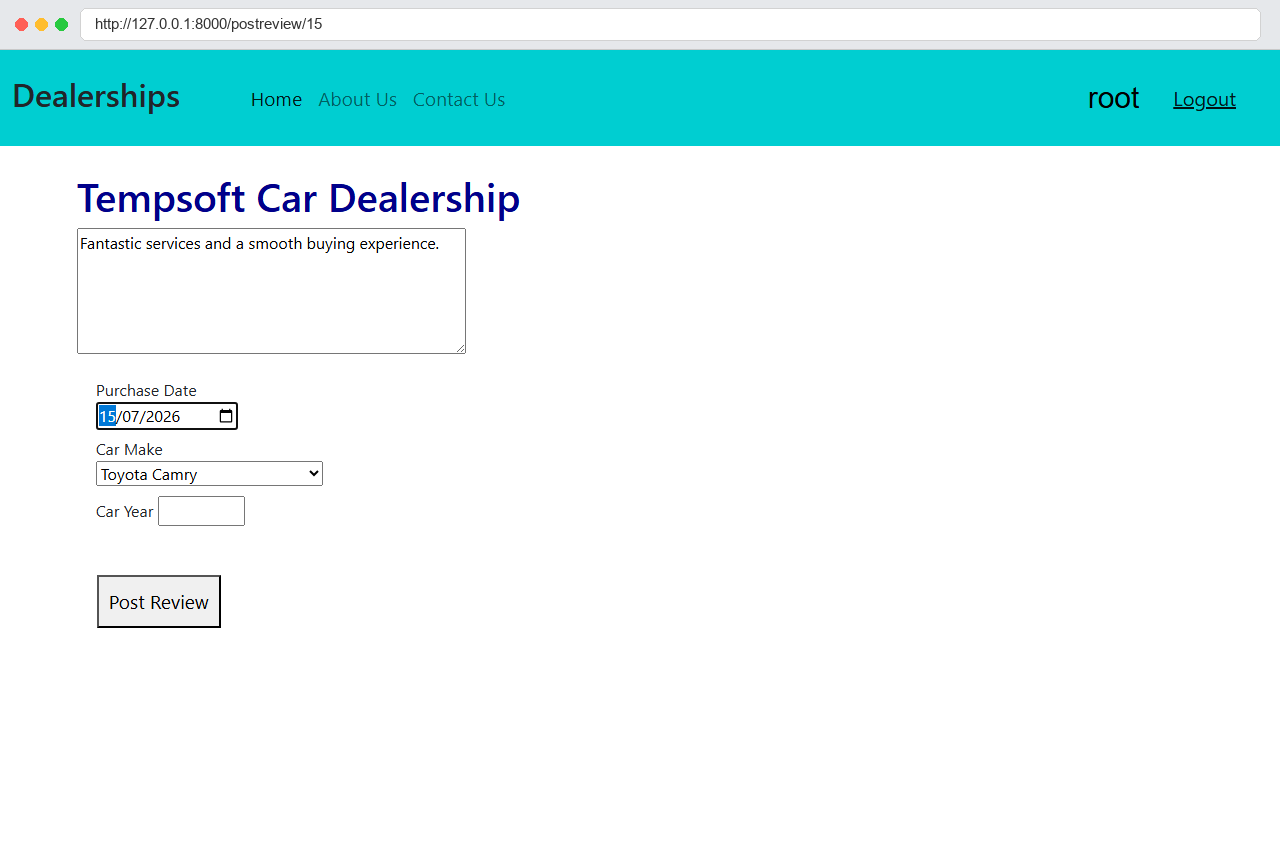
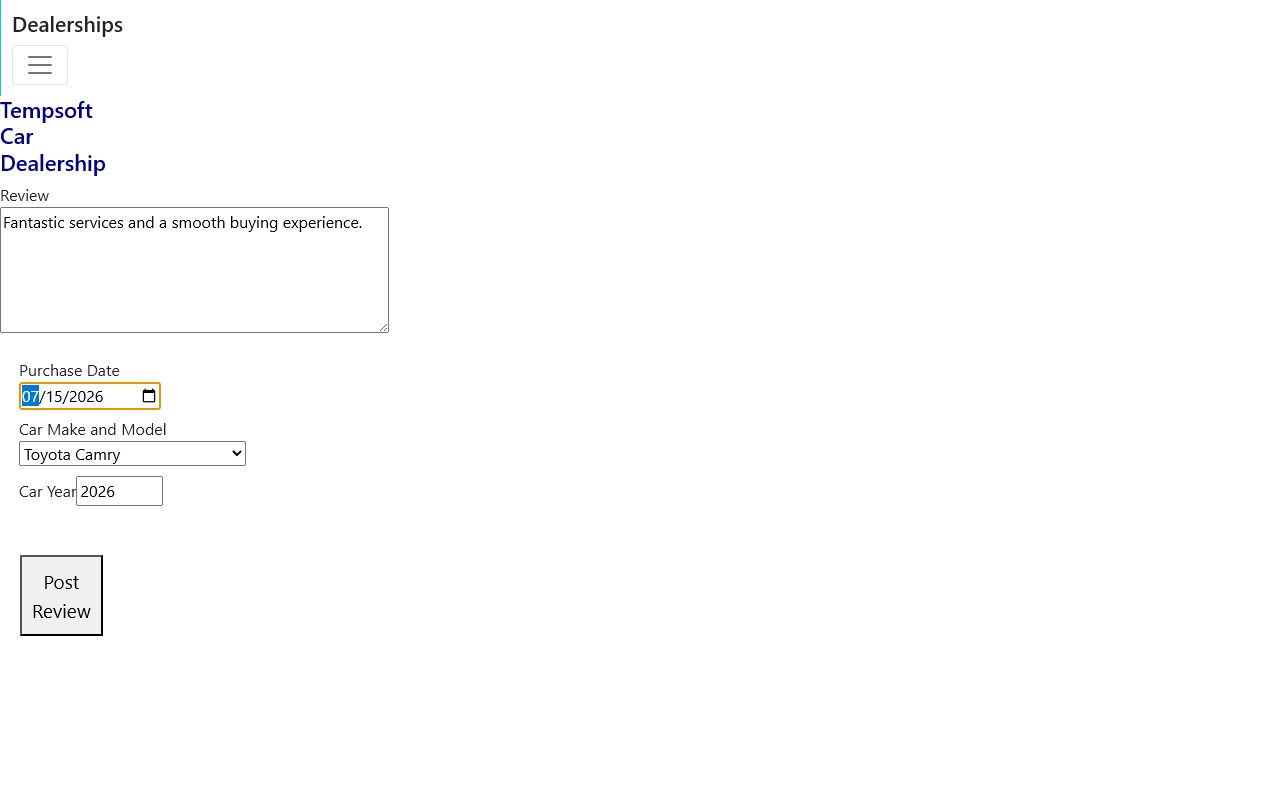
Fix capstone submission routes and evidence (#2)
* Fix capstone submission routes and evidence

* Build React before Django route tests

* Record successful CI evidence

Changed region(s): [[0.0, 0.0, 1.0, 0.3125], [0.0, 0.4375, 0.2188, 0.625], [0.0, 0.6562, 0.1875, 0.7812]]

diff --git a/server/frontend/src/components/Dealers/Dealers.jsx b/server/frontend/src/components/Dealers/Dealers.jsx
@@ -3,48 +3,51 @@ import "./Dealers.css";
 import "../assets/style.css";
 import Header from '../Header/Header';
 import review_icon from "../assets/reviewicon.png"
+import { useNavigate, useParams } from "react-router-dom";
 
 const Dealers = () => {
   const [dealersList, setDealersList] = useState([]);
-  // let [state, setState] = useState("")
-  let [states, setStates] = useState([])
+  const [states, setStates] = useState([]);
+  const navigate = useNavigate();
+  const { state: selectedState } = useParams();
 
-  // let root_url = window.location.origin
-  let dealer_url ="/djangoapp/get_dealers";
-  
-  let dealer_url_by_state = "/djangoapp/get_dealers/";
- 
   const filterDealers = async (state) => {
-    dealer_url_by_state = dealer_url_by_state+state;
-    const res = await fetch(dealer_url_by_state, {
+    const endpoint = state === "All"
+      ? "/djangoapp/get_dealers"
+      : `/djangoapp/get_dealers/${encodeURIComponent(state)}`;
+    const res = await fetch(endpoint, {
       method: "GET"
     });
     const retobj = await res.json();
-    if(retobj.status === 200) {
-      let state_dealers = Array.from(retobj.dealers)
-      setDealersList(state_dealers)
+    if (retobj.status === 200) {
+      setDealersList(Array.from(retobj.dealers));
+      navigate(state === "All" ? "/dealers" : `/dealers/${encodeURIComponent(state)}`);
     }
-  }
+  };
 
-  const get_dealers = async ()=>{
-    const res = await fetch(dealer_url, {
+  const getDealers = async () => {
+    const res = await fetch("/djangoapp/get_dealers", {
       method: "GET"
     });
     const retobj = await res.json();
-    if(retobj.status === 200) {
-      let all_dealers = Array.from(retobj.dealers)
-      let states = [];
-      all_dealers.forEach((dealer)=>{
-        states.push(dealer.state)
-      });
-
-      setStates(Array.from(new Set(states)))
-      setDealersList(all_dealers)
+    if (retobj.status === 200) {
+      const allDealers = Array.from(retobj.dealers);
+      setStates(Array.from(new Set(allDealers.map((dealer) => dealer.state))));
+      if (selectedState) {
+        const stateResponse = await fetch(
+          `/djangoapp/get_dealers/${encodeURIComponent(selectedState)}`
+        );
+        const stateResult = await stateResponse.json();
+        setDealersList(Array.from(stateResult.dealers || []));
+      } else {
+        setDealersList(allDealers);
+      }
     }
-  }
+  };
+
   useEffect(() => {
-    get_dealers();
-  },[]);  
+    getDealers();
+  }, [selectedState]);
 
 
 let isLoggedIn = sessionStorage.getItem("username") != null ? true : false;
@@ -53,6 +56,7 @@ return(
       <Header/>
 
      <table className='table'>
+      <thead>
       <tr>
       <th>ID</th>
       <th>Dealer Name</th>
@@ -60,11 +64,11 @@ return(
       <th>Address</th>
       <th>Zip</th>
       <th>
-      <select name="state" id="state" onChange={(e) => filterDealers(e.target.value)}>
-      <option value="" selected disabled hidden>State</option>
+      <select name="state" id="state" value={selectedState || ""} onChange={(e) => filterDealers(e.target.value)}>
+      <option value="" disabled>State</option>
       <option value="All">All States</option>
       {states.map(state => (
-          <option value={state}>{state}</option>
+          <option key={state} value={state}>{state}</option>
       ))}
       </select>        
 
@@ -74,8 +78,10 @@ return(
          ):<></>
       }
       </tr>
+      </thead>
+      <tbody>
      {dealersList.map(dealer => (
-        <tr>
+        <tr key={dealer.id}>
           <td>{dealer['id']}</td>
           <td><a href={'/dealer/'+dealer['id']}>{dealer['full_name']}</a></td>
           <td>{dealer['city']}</td>
@@ -88,7 +94,8 @@ return(
           }
         </tr>
       ))}
-     </table>;
+      </tbody>
+     </table>
   </div>
 )
 }

diff --git a/server/frontend/src/components/Dealers/PostReview.jsx b/server/frontend/src/components/Dealers/PostReview.jsx
@@ -95,22 +95,25 @@ const PostReview = () => {
       <Header/>
       <div  style={{margin:"2% 6%"}}>
       <h1 style={{color:"darkblue"}}>{dealer.full_name}</h1>
-      <textarea id='review' cols='50' rows='5' onChange={(e) => setReview(e.target.value)}></textarea>
+      <label htmlFor="review">Review</label>
+      <textarea id='review' cols='50' rows='5' value={review} onChange={(e) => setReview(e.target.value)}></textarea>
       <div className='input_field'>
-      Purchase Date <input type="date" onChange={(e) => setDate(e.target.value)}/>
+      <label htmlFor="purchase-date">Purchase Date</label>
+      <input id="purchase-date" type="date" value={date} onChange={(e) => setDate(e.target.value)}/>
       </div>
       <div className='input_field'>
-      Car Make 
-      <select name="cars" id="cars" onChange={(e) => setModel(e.target.value)}>
-      <option value="" selected disabled hidden>Choose Car Make and Model</option>
+      <label htmlFor="cars">Car Make and Model</label>
+      <select name="cars" id="cars" value={model || ""} onChange={(e) => setModel(e.target.value)}>
+      <option value="" disabled>Choose Car Make and Model</option>
       {carmodels.map(carmodel => (
-          <option value={carmodel.CarMake+" "+carmodel.CarModel}>{carmodel.CarMake} {carmodel.CarModel}</option>
+          <option key={`${carmodel.CarMake}-${carmodel.CarModel}`} value={carmodel.CarMake+" "+carmodel.CarModel}>{carmodel.CarMake} {carmodel.CarModel}</option>
       ))}
       </select>        
       </div >
 
       <div className='input_field'>
-      Car Year <input type="number" onChange={(e) => setYear(e.target.value)} max={2026} min={2015}/>
+      <label htmlFor="car-year">Car Year</label>
+      <input id="car-year" type="number" value={year} onChange={(e) => setYear(e.target.value)} max={2026} min={2015}/>
       </div>
 
       <div>

diff --git a/server/frontend/src/components/Dealers/Dealer.jsx b/server/frontend/src/components/Dealers/Dealer.jsx
@@ -74,12 +74,12 @@ return(
       <h1 style={{color:"grey"}}>{dealer.full_name}{postReview}</h1>
       <h4  style={{color:"grey"}}>{dealer['city']},{dealer['address']}, Zip - {dealer['zip']}, {dealer['state']} </h4>
       </div>
-      <div class="reviews_panel">
+      <div className="reviews_panel">
       {reviews.length === 0 && unreviewed === false ? (
         <text>Loading Reviews....</text>
       ):  unreviewed === true? <div>No reviews yet! </div> :
       reviews.map(review => (
-        <div className='review_panel'>
+        <div className='review_panel' key={review.id}>
           <img src={senti_icon(review.sentiment)} className="emotion_icon" alt='Sentiment'/>
           <div className='review'>{review.review}</div>
           <div className="reviewer">{review.name} {review.car_make} {review.car_model} {review.car_year}</div>

diff --git a/server/frontend/src/App.js b/server/frontend/src/App.js
@@ -12,6 +12,7 @@ function App() {
       <Route path="/login" element={<LoginPanel />} />
       <Route path="/register" element={<Register />} />
       <Route path="/dealers" element={<Dealers />} />
+      <Route path="/dealers/:state" element={<Dealers />} />
       <Route path="/dealer/:id" element={<Dealer />} />
       <Route path="/postreview/:id" element={<PostReview />} />
     </Routes>

diff --git a/server/djangoproj/urls.py b/server/djangoproj/urls.py
@@ -1,5 +1,5 @@
 from django.contrib import admin
-from django.urls import path, include
+from django.urls import path, include, re_path
 from django.views.generic import TemplateView
 from django.conf.urls.static import static
 from django.conf import settings
@@ -15,9 +15,9 @@ urlpatterns = [
     path('', TemplateView.as_view(template_name="index.html")),
     path('about/', TemplateView.as_view(template_name="About.html")),
     path('contact/', TemplateView.as_view(template_name="Contact.html")),
-    path('login/', TemplateView.as_view(template_name="index.html")),
-    path('register/', TemplateView.as_view(template_name="index.html")),
-    path('dealers/', TemplateView.as_view(template_name="index.html")),
-    path('dealer/<int:id>/', TemplateView.as_view(template_name="index.html")),
-    path('postreview/<int:id>/', TemplateView.as_view(template_name="index.html")),
+    re_path(r'^login/?$', TemplateView.as_view(template_name="index.html")),
+    re_path(r'^register/?$', TemplateView.as_view(template_name="index.html")),
+    re_path(r'^dealers(?:/(?P<state>[^/]+))?/?$', TemplateView.as_view(template_name="index.html")),
+    re_path(r'^dealer/(?P<id>\d+)/?$', TemplateView.as_view(template_name="index.html")),
+    re_path(r'^postreview/(?P<id>\d+)/?$', TemplateView.as_view(template_name="index.html")),
 ] + static(settings.STATIC_URL, document_root=settings.STATIC_ROOT)

diff --git a/server/djangoapp/tests.py b/server/djangoapp/tests.py
@@ -69,3 +69,15 @@ class DealershipApiTests(TestCase):
         self.assertEqual(cars[0]["CarMake"], "Toyota")
         sentiment = self.client.get("/djangoapp/analyze/Fantastic%20services").json()
         self.assertEqual(sentiment["sentiment"], "positive")
+
+    def test_react_routes_accept_submission_urls_without_trailing_slashes(self):
+        for route in (
+            "/dealers",
+            "/dealers/Kansas",
+            "/dealer/15",
+            "/postreview/15",
+            "/login",
+            "/register",
+        ):
+            with self.subTest(route=route):
+                self.assertEqual(self.client.get(route).status_code, 200)
